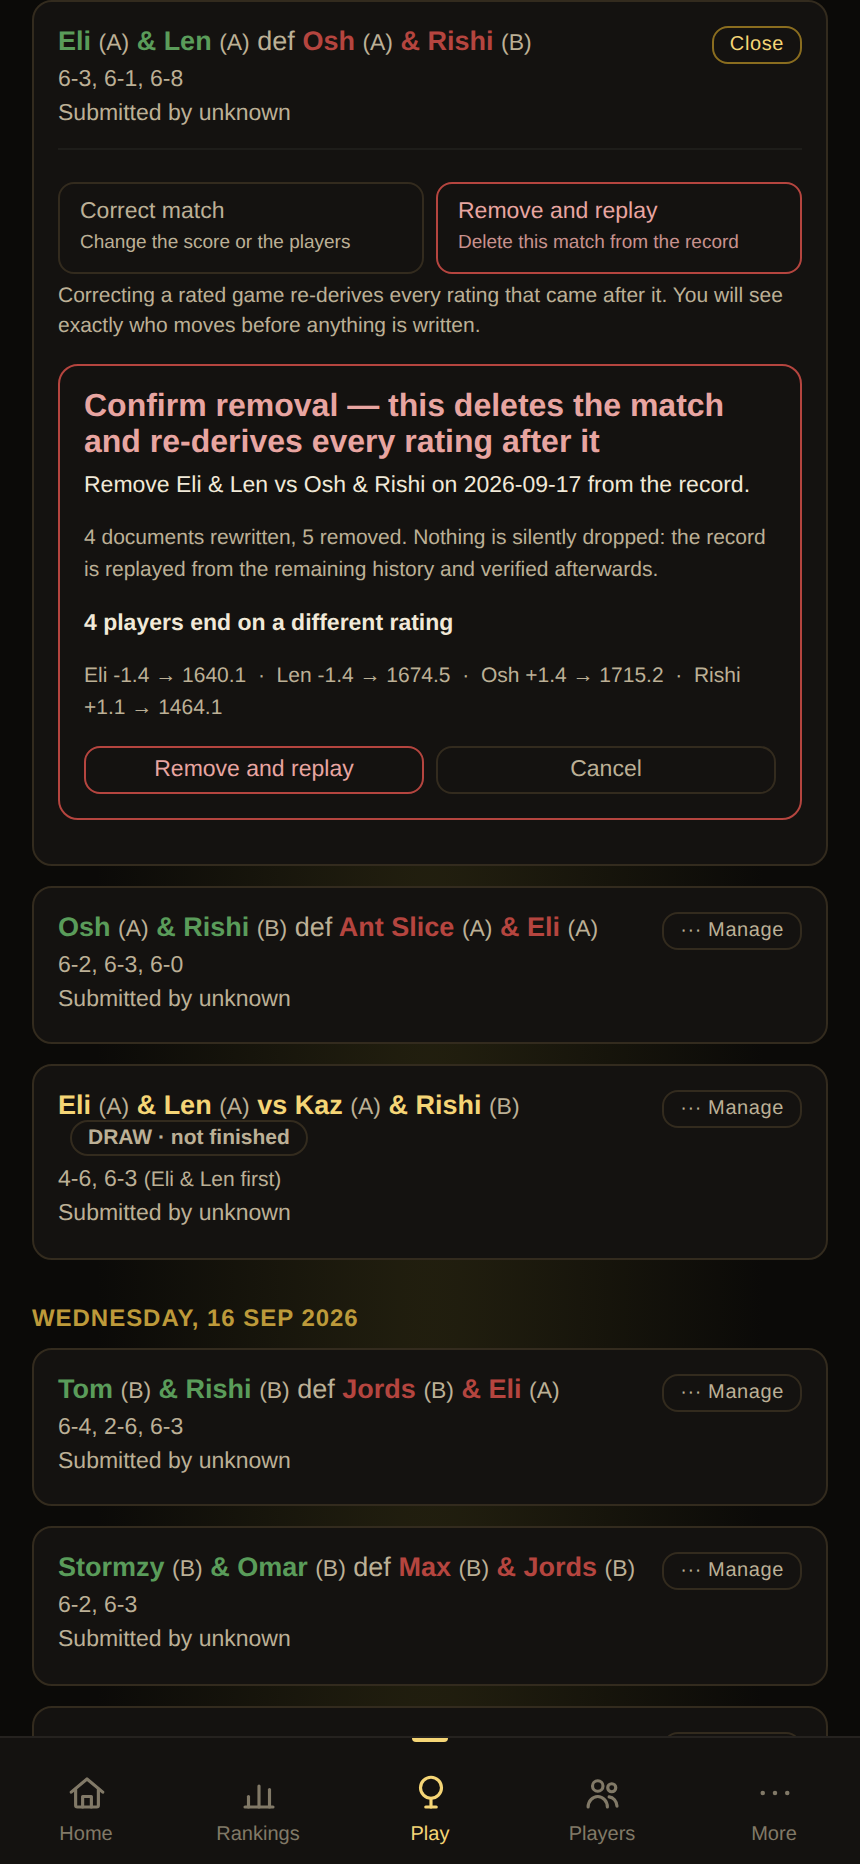
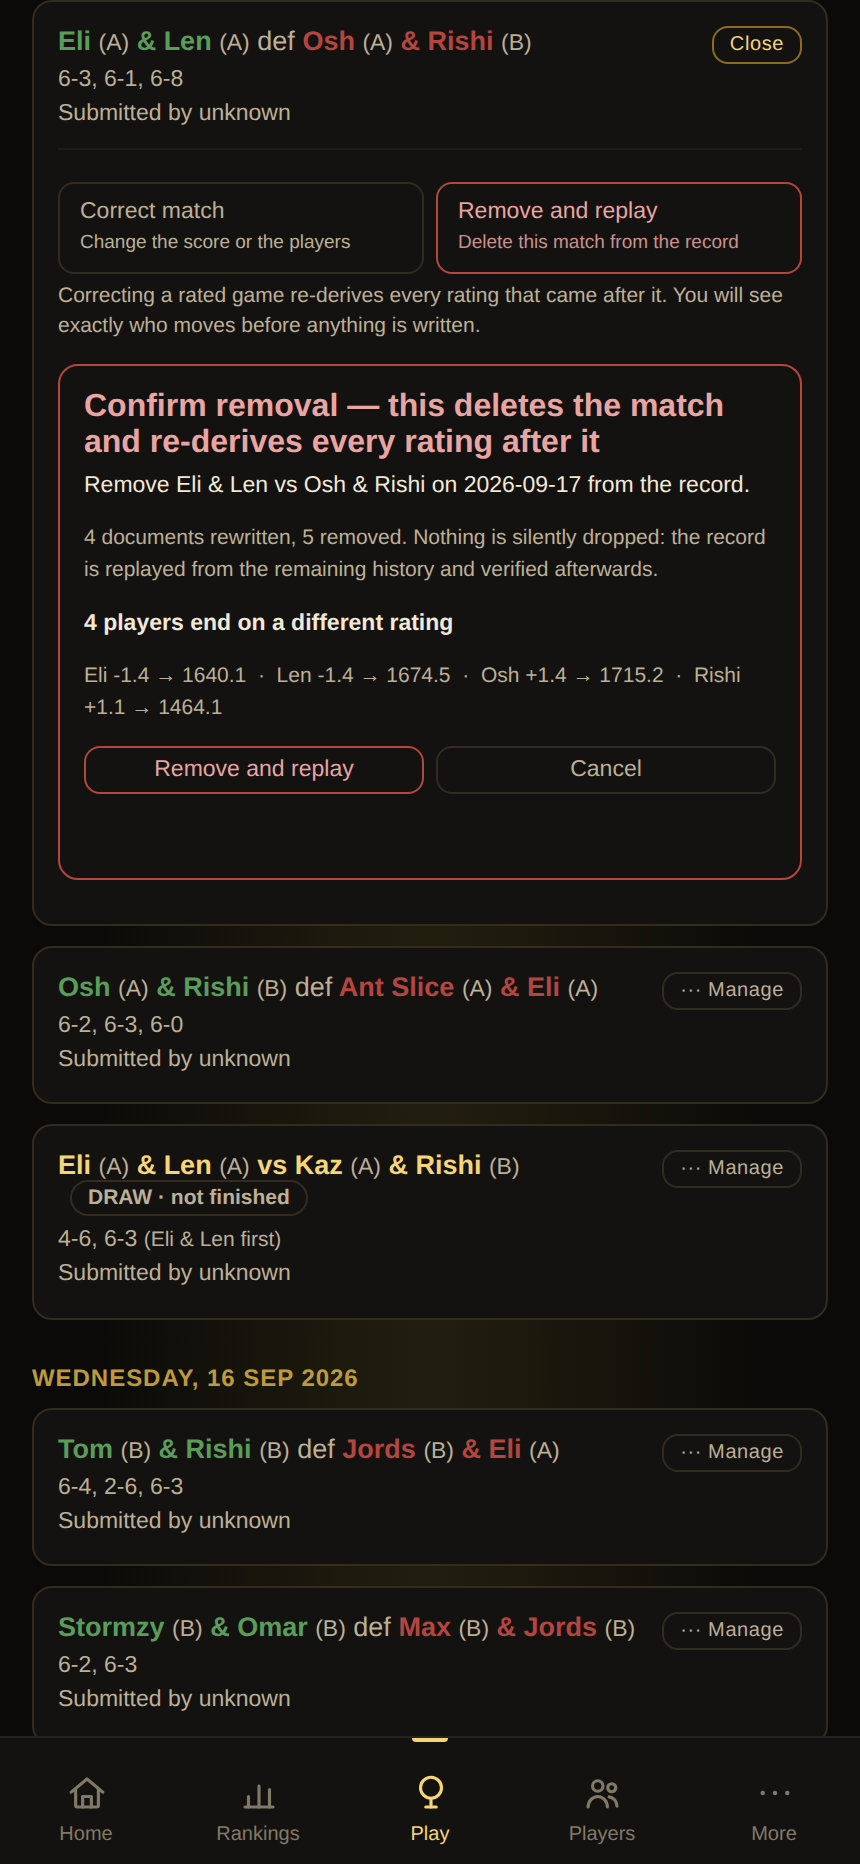
Replay writes go out in batches, and say so where the button is
Removing a June match rewrites 634 documents. They were sent one at a
time, each awaiting its own round trip: on a phone that is minutes of
apparently nothing happening. Reported from the live beta, where a
removal looked stuck and had in fact already completed.

Three fixes:

1. ReplayForward.commit batches. A backend exposing commitBatch writes
   500 operations per round trip -- 634 documents now leave in two
   batches instead of 634 -- and each batch is atomic. Backends without
   it fall back to one document at a time and still report progress, so
   the REST backend the scripts use is unaffected. Deletes and writes
   are disjoint by construction in diffDocs, which a batch relies on;
   commit now checks that rather than assuming it.

2. Progress and outcome are said where the action is. The only feedback
   was a line in #gamesMessage at the top of the Games tab, hundreds of
   pixels above an operator scrolled into a match card, which is
   indistinguishable from nothing happening. The panel now carries its
   own progress line, the button reads Working..., and the outcome is
   shown in a dismissible banner -- necessary because a removal deletes
   the card the action was started from.

3. A removal says it removed. The success message read "Corrected and
   replayed" for a deletion, the same confusion already fixed in the
   heading and the button label.

The test harness's Firestore stub gained a working batch(), so the
[…]

diff --git a/tests/ui.test.js b/tests/ui.test.js
@@ -273,6 +273,109 @@ test('correcting a rated game shows the blast radius and writes only on confirma
   } finally { await app.close(); }
 });
 
+// Removing a June match rewrites ~500 documents. Sent one at a time that is
+// ~500 sequential round trips -- minutes of apparently nothing happening on a
+// phone, with the only progress text rendered at the top of the tab, far above
+// an operator scrolled into a match card. Reported from the live beta.
+test('a removal writes in batches, reports progress in its own panel, and says it removed', { skip }, async () => {
+  const app = await H.open();
+  try {
+    const r = await app.run(async () => {
+      isUnlocked = true; currentUserName = 'Tester';
+      const target = MATCHES.find((m) => m.date === '2026-06-02');
+      const label = `${target.winners.join(' & ')} vs ${target.losers.join(' & ')}`;
+
+      armedDeleteId = target.id;
+      await deleteMatch(target.id);
+      const planned = { write: matchFixPlan.documentsToWrite, remove: matchFixPlan.documentsToDelete };
+
+      // The panel the operator is looking at must carry the progress itself.
+      renderGamesTab();
+      const panelMsgBeforeExists = !!document.getElementById('matchFixPanelMsg');
+
+      // Capture what the progress line actually said while the write ran.
+      const ticks = [];
+      const realProgress = setMatchFixProgress;
+      setMatchFixProgress = (text) => {
+        ticks.push({ text, inPanel: !!document.getElementById('matchFixPanelMsg') });
+        realProgress(text);
+      };
+      window.__batches = [];
+      await commitMatchCorrection();
+      setMatchFixProgress = realProgress;
+
+      const banner = document.getElementById('matchFixOutcome');
+      return {
+        planned,
+        panelMsgBeforeExists,
+        ticks,
+        batches: window.__batches.slice(),
+        gone: !ALL_MATCHES.some((m) => m.id === target.id),
+        message: matchFixMessage,
+        bannerText: banner ? banner.innerText : null,
+        label,
+      };
+    });
+
+    assert.strictEqual(r.gone, true, 'the match must actually be removed');
+    assert.ok(r.planned.write > 100, `this fixture should rewrite a lot of documents, got ${r.planned.write}`);
+
+    // Batched, not one round trip per document.
+    const ops = r.batches.reduce((n, size) => n + size, 0);
+    assert.strictEqual(ops, r.planned.write + r.planned.remove,
+      'every planned operation must go out in a batch');
+    assert.ok(r.batches.length <= Math.ceil(ops / 500),
+      `${ops} operations should need ${Math.ceil(ops / 500)} batch(es), took ${r.batches.length}`);
+    r.batches.forEach((size) => assert.ok(size <= 500, `a batch of ${size} exceeds Firestore's limit`));
+
+    // Progress, said where the button is.
+    assert.strictEqual(r.panelMsgBeforeExists, true, 'the panel must have its own message line');
+    assert.ok(r.ticks.length >= 2, `progress must be reported more than once, got ${r.ticks.length}`);
+    r.ticks.forEach((t) => assert.strictEqual(t.inPanel, true,
+      'progress must be written into the panel, not only the top of the tab'));
+    assert.ok(r.ticks.some((t) => /Removing/.test(t.text)),
+      `progress must name the action, got: ${r.ticks.map((t) => t.text).join(' / ')}`);
+    assert.ok(r.ticks.every((t) => !/Correcting/.test(t.text)),
+      'a removal must never describe itself as a correction');
+
+    // And the outcome, which has to outlive the card it was started from.
+    assert.match(r.message, /^Removed and replayed\./,
+      `a removal must not report itself as corrected: "${r.message}"`);
+    assert.ok(r.bannerText, 'the outcome must be shown somewhere the operator can see it');
+    assert.match(r.bannerText, /Removed and replayed/);
+  } finally { await app.close(); }
+});
+
+// The same path, for a correction: the wording must follow the action both ways.
+test('a correction still reports itself as a correction', { skip }, async () => {
+  const app = await H.open();
+  try {
+    const r = await app.run(async () => {
+      isUnlocked = true; currentUserName = 'Tester';
+      const target = MATCHES.find((m) => m.date === '2026-06-02');
+      await stageMatchCorrection({
+        type: 'edit',
+        match: {
+          id: target.id, date: target.date, sourceIndex: 1,
+          teamA: target.winners, teamB: target.losers, sets: [[6, 1], [6, 1]],
+          outcome: RatingEngine.OUTCOME.A_WINS, type: 'doubles', drawSideAssignmentArbitrary: false,
+        },
+      }, 'Correct the score.');
+      const ticks = [];
+      const realProgress = setMatchFixProgress;
+      setMatchFixProgress = (t) => { ticks.push(t); realProgress(t); };
+      await commitMatchCorrection();
+      setMatchFixProgress = realProgress;
+      const banner = document.getElementById('matchFixOutcome');
+      return { message: matchFixMessage, ticks, bannerText: banner ? banner.innerText : null };
+    });
+    assert.match(r.message, /^Corrected and replayed\./);
+    assert.ok(r.ticks.some((t) => /Correcting/.test(t)));
+    assert.ok(r.ticks.every((t) => !/Removing/.test(t)));
+    assert.match(r.bannerText || '', /Corrected and replayed/);
+  } finally { await app.close(); }
+});
+
 test('a correction that changes the date is refused rather than mis-filed', { skip }, async () => {
   const msg = await shared.run(() => matchFixDateChangeRefusal('2026-06-02', '2026-06-09'));
   assert.match(msg, /identifier is built from its date/);

diff --git a/assets/js/app.js b/assets/js/app.js
@@ -5190,20 +5190,68 @@ async function stageMatchCorrection(change, describe){
   renderGamesTab();
 }
 
+// Progress goes straight into the panel's own line rather than through
+// renderGamesTab(), which would rebuild the whole feed on every tick.
+function setMatchFixProgress(text){
+  matchFixMessage = text;
+  const el = document.getElementById('matchFixPanelMsg');
+  if(el) el.textContent = text;
+}
+
+// The outcome has to outlive the thing that produced it. A removal deletes the
+// match, so its card -- and the panel the button was in -- is gone from the
+// feed by the time there is anything to report. The admin line at the top of
+// the tab is where this used to be said, hundreds of pixels above an operator
+// scrolled deep into a match card, which is indistinguishable from nothing
+// happening at all.
+function showMatchFixOutcome(text, failed){
+  const id = 'matchFixOutcome';
+  document.getElementById(id)?.remove();
+  const el = document.createElement('div');
+  el.id = id;
+  el.style.cssText = 'position:fixed;left:12px;right:12px;bottom:78px;z-index:9998;'
+    + `background:${failed ? '#5b1a17' : '#1d2a1c'};color:${failed ? '#ffd9d6' : '#d7f0d2'};`
+    + `border:1px solid ${failed ? '#8a2a25' : '#3d5c38'};border-radius:10px;`
+    + 'padding:12px 14px;font-size:13px;line-height:1.45;display:flex;gap:12px;align-items:flex-start;';
+  const msg = document.createElement('div');
+  msg.style.cssText = 'flex:1; min-width:0;';
+  msg.textContent = text;
+  const close = document.createElement('button');
+  close.className = 'preset-btn';
+  close.textContent = 'Dismiss';
+  close.style.cssText = 'flex:0 0 auto; padding:4px 10px; font-size:12px;';
+  close.onclick = ()=> el.remove();
+  el.appendChild(msg); el.appendChild(close);
+  document.body.appendChild(el);
+  // A success can see itself out; a failure stays until it has been read.
+  if(!failed) setTimeout(()=>{ if(document.getElementById(id) === el) el.remove(); }, 12000);
+  return el;
+}
+
 async function commitMatchCorrection(){
   if(!matchFixPlan) return;
-  matchFixBusy = true; matchFixMessage = 'Writing…'; renderGamesTab();
+  // A removal and a correction are different actions and always said
+  // differently -- sharing one wording is how "Corrected and replayed" ended
+  // up reporting a deletion.
+  const isRemoval = !!(matchFixPlan.change && matchFixPlan.change.type === 'delete');
+  const verb = isRemoval ? 'Removing' : 'Correcting';
+  matchFixBusy = true; matchFixMessage = verb + '…'; renderGamesTab();
   try {
-    await ReplayForward.commit(RatingStore.firestoreCompatBackend(db), matchFixPlan);
+    await ReplayForward.commit(RatingStore.firestoreCompatBackend(db), matchFixPlan, {
+      onProgress: (done, total)=> setMatchFixProgress(
+        done >= total ? 'Written. Re-reading the record…' : `${verb}… ${done} of ${total} documents`),
+    });
     const what = matchFixPlan.describe;
     matchFixReset();
     editingMatchId = null;
     armedDeleteId = null;
     await loadV3State();
     recomputeAll();
-    matchFixMessage = 'Corrected and replayed. ' + what;
+    matchFixMessage = (isRemoval ? 'Removed and replayed. ' : 'Corrected and replayed. ') + what;
+    showMatchFixOutcome(matchFixMessage, false);
   } catch(e){
-    matchFixMessage = 'Write failed: ' + e.message;
+    matchFixMessage = (isRemoval ? 'Removal failed: ' : 'Write failed: ') + e.message;
+    showMatchFixOutcome(matchFixMessage, true);
   }
   matchFixBusy = false;
   render();
@@ -5232,9 +5280,10 @@ function buildMatchFixConfirmHtml(){
     <div class="section-sub" style="margin-top:6px; font-weight:700; color:var(--text);">${moved.length} player${moved.length===1?'':'s'} end on a different rating</div>
     <div class="section-sub" style="font-size:10.5px; max-height:160px; overflow:auto;">${moved.length ? moved.map(m=>`${m.playerId} ${m.delta>0?'+':''}${m.delta} → ${Math.round(m.to*10)/10}`).join(' &nbsp;·&nbsp; ') : nobody}</div>
     <div class="difficulty-row" style="margin-top:8px;">
-      <button class="preset-btn${isRemoval ? ' match-action-destructive' : ''}" id="matchFixCommitBtn" style="flex:1;" ${matchFixBusy?'disabled':''}>${commitLabel}</button>
-      <button class="preset-btn" id="matchFixCancelBtn" style="flex:1;">Cancel</button>
+      <button class="preset-btn${isRemoval ? ' match-action-destructive' : ''}" id="matchFixCommitBtn" style="flex:1;" ${matchFixBusy?'disabled':''}>${matchFixBusy ? 'Working…' : commitLabel}</button>
+      <button class="preset-btn" id="matchFixCancelBtn" style="flex:1;" ${matchFixBusy?'disabled':''}>Cancel</button>
     </div>
+    <div id="matchFixPanelMsg" class="section-sub" style="margin-top:6px; min-height:14px; color:var(--gold-bright);">${matchFixBusy ? matchFixMessage : ''}</div>
   </div>`;
 }
 

diff --git a/assets/js/replayForward.js b/assets/js/replayForward.js
@@ -411,18 +411,63 @@
     };
   }
 
-  async function commit(backend, planned) {
-    let written = 0, deleted = 0;
+  // Firestore's cap on the number of operations in one batched write.
+  const BATCH_LIMIT = 500;
+
+  // Removing one June match rewrites ~500 documents. Sending them one at a time
+  // meant ~500 sequential round trips: on a phone that is minutes of apparently
+  // nothing happening, which is how an operator concludes the button is broken
+  // and starts pressing things. A backend that can batch does it in two.
+  //
+  // `onProgress(done, total)` is called before the first operation and after
+  // each batch, so the caller can say how far along it is against a number the
+  // confirmation panel already showed.
+  async function commit(backend, planned, { onProgress } = {}) {
     // Deletions first: a removed match's events must not linger beside the
     // rewritten ones, where a reader would see both.
+    const ops = [];
     for (const [collection, ids] of Object.entries(planned.deletes)) {
-      for (const id of ids) { await backend.remove(collection, id); deleted++; }
+      for (const id of ids) ops.push({ op: 'delete', collection, id });
     }
     for (const [collection, docs] of Object.entries(planned.writes)) {
-      for (const doc of docs) { await backend.set(collection, doc.id, doc); written++; }
+      for (const doc of docs) ops.push({ op: 'set', collection, id: doc.id, doc });
     }
-    return { written, deleted };
+
+    // diffDocs derives deletions as "in the record before, absent after", so a
+    // deleted id can never also be written and the two sets are disjoint. A
+    // batch applies its operations atomically rather than in sequence, so if
+    // that ever stopped being true the delete-then-write ordering above would
+    // quietly stop meaning anything. Checked rather than assumed.
+    const writeKeys = new Set(ops.filter((o) => o.op === 'set').map((o) => o.collection + '/' + o.id));
+    const clash = ops.find((o) => o.op === 'delete' && writeKeys.has(o.collection + '/' + o.id));
+    if (clash) throw new Error(`plan both deletes and writes ${clash.collection}/${clash.id}`);
+
+    const total = ops.length;
+    let done = 0;
+    if (onProgress) onProgress(done, total);
+
+    const run = async (chunk) => {
+      if (backend.commitBatch) await backend.commitBatch(chunk);
+      else {
+        for (const o of chunk) {
+          if (o.op === 'delete') await backend.remove(o.collection, o.id);
+          else await backend.set(o.collection, o.id, o.doc);
+        }
+      }
+      done += chunk.length;
+      if (onProgress) onProgress(done, total);
+    };
+
+    // A backend with no batching still reports progress usefully, so the
+    // fallback path steps one operation at a time rather than in blocks of 500.
+    const step = backend.commitBatch ? BATCH_LIMIT : 1;
+    for (let i = 0; i < ops.length; i += step) await run(ops.slice(i, i + step));
+
+    return {
+      written: ops.filter((o) => o.op === 'set').length,
+      deleted: ops.filter((o) => o.op === 'delete').length,
+    };
   }
 
-  return { inputsFromRecord, applyChange, plan, commit, verifyNoOp, diffDocs, unseenPlayers, sameDoc, EPSILON };
+  return { inputsFromRecord, applyChange, plan, commit, verifyNoOp, diffDocs, unseenPlayers, sameDoc, EPSILON, BATCH_LIMIT };
 });

diff --git a/tests/helpers/uiHarness.js b/tests/helpers/uiHarness.js
@@ -91,6 +91,9 @@ async function open(options = {}) {
   await page.addInitScript(({ data, failReads }) => {
     window.__writes = [];
     window.__data = data;
+    // One entry per batched write actually committed, so a test can assert that
+    // a replay went out in a couple of round trips rather than hundreds.
+    window.__batches = [];
     const fail = () => { throw new Error('stubbed read failure'); };
     window.firebase = {
       initializeApp() {},
@@ -100,6 +103,9 @@ async function open(options = {}) {
             return {
               doc(id) {
                 return {
+                  // A batch collects refs and applies them later, so a ref has
+                  // to carry what it points at.
+                  _collection: name, _id: id,
                   async get() { const v = (data[name] || {})[id]; return { exists: !!v, data: () => v }; },
                   async set(v) { window.__writes.push({ collection: name, id, doc: v }); (data[name] = data[name] || {})[id] = v; },
                   async delete() { window.__writes.push({ collection: name, id, deleted: true }); delete (data[name] || {})[id]; },
@@ -108,6 +114,29 @@ async function open(options = {}) {
               async get() {
                 if (failReads) fail();
                 return { docs: Object.values(data[name] || {}).map((v) => ({ data: () => v })) };
+              },
+            };
+          },
+          // The application batches its replay writes, so the stub has to as
+          // well: without this the tests would exercise the one-at-a-time
+          // fallback while the real app takes a path nothing covers.
+          batch() {
+            const ops = [];
+            return {
+              set(ref, v) { ops.push({ op: 'set', collection: ref._collection, id: ref._id, doc: v }); },
+              delete(ref) { ops.push({ op: 'delete', collection: ref._collection, id: ref._id }); },
+              async commit() {
+                if (ops.length > 500) throw new Error('batched write exceeds 500 operations');
+                window.__batches.push(ops.length);
+                ops.forEach((o) => {
+                  if (o.op === 'delete') {
+                    window.__writes.push({ collection: o.collection, id: o.id, deleted: true });
+                    delete (data[o.collection] || {})[o.id];
+                  } else {
+                    window.__writes.push({ collection: o.collection, id: o.id, doc: o.doc });
+                    (data[o.collection] = data[o.collection] || {})[o.id] = o.doc;
+                  }
+                });
               },
             };
           },

diff --git a/assets/js/ratingStore.js b/assets/js/ratingStore.js
@@ -230,6 +230,15 @@
       },
       async getAll(collection) { return Object.values(data[collection] || {}); },
       async remove(collection, id) { delete (data[collection] || {})[id]; },
+      // Present so the batching path is the one the tests exercise too. A batch
+      // is atomic against the real backend, so it is applied here in one go
+      // rather than interleaved with anything else.
+      async commitBatch(ops) {
+        ops.forEach((o) => {
+          if (o.op === 'delete') delete (data[o.collection] || {})[o.id];
+          else (data[o.collection] = data[o.collection] || {})[o.id] = o.doc;
+        });
+      },
       raw: data,
     };
   }
@@ -251,6 +260,23 @@
       async getAll(collection) {
         const snap = await db.collection(collection).get();
         return snap.docs.map((d) => d.data());
+      },
+      // A replay rewrites hundreds of documents. One batched write per 500
+      // operations replaces one round trip per document, which is the
+      // difference between a couple of seconds and a couple of minutes on a
+      // phone. Each batch is atomic: it lands whole or not at all.
+      //
+      // Only offered when the SDK in use actually batches. ReplayForward.commit
+      // falls back to one document at a time when this is absent, so a backend
+      // without it still writes correctly -- just slowly.
+      commitBatch: typeof db.batch !== 'function' ? undefined : async function (ops) {
+        const batch = db.batch();
+        ops.forEach((o) => {
+          const ref = db.collection(o.collection).doc(o.id);
+          if (o.op === 'delete') batch.delete(ref);
+          else batch.set(ref, o.doc);
+        });
+        await batch.commit();
       },
     };
   }
